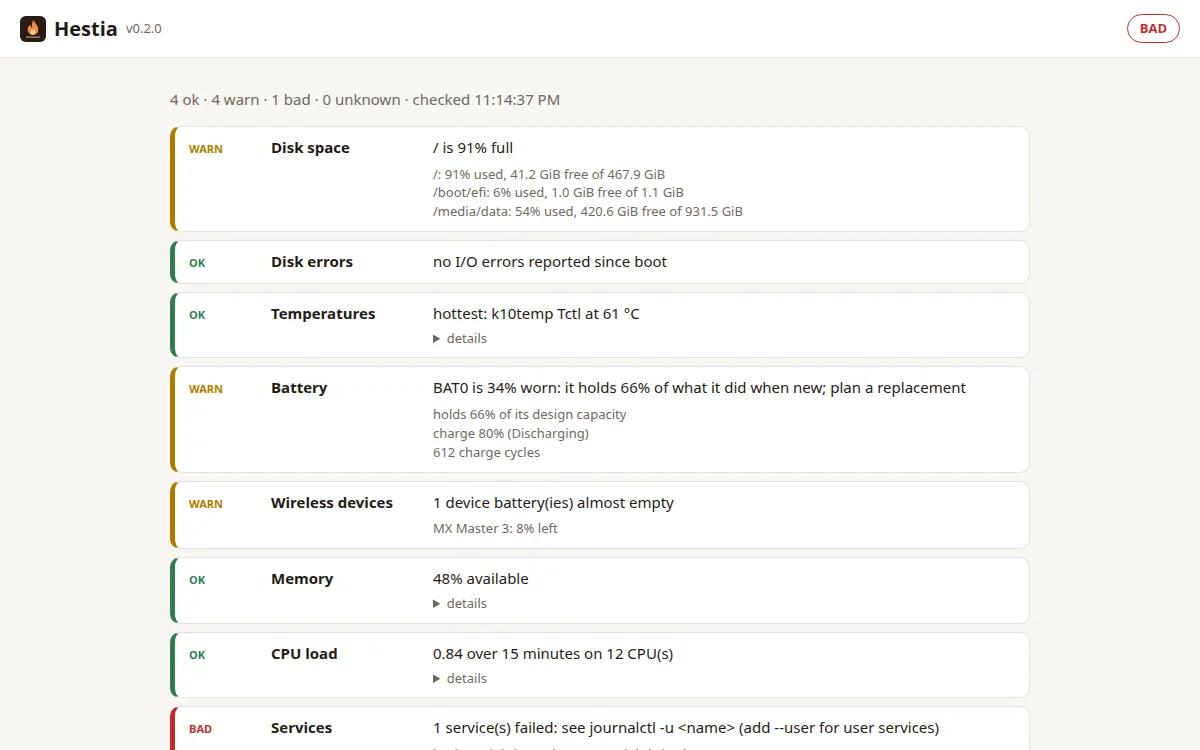
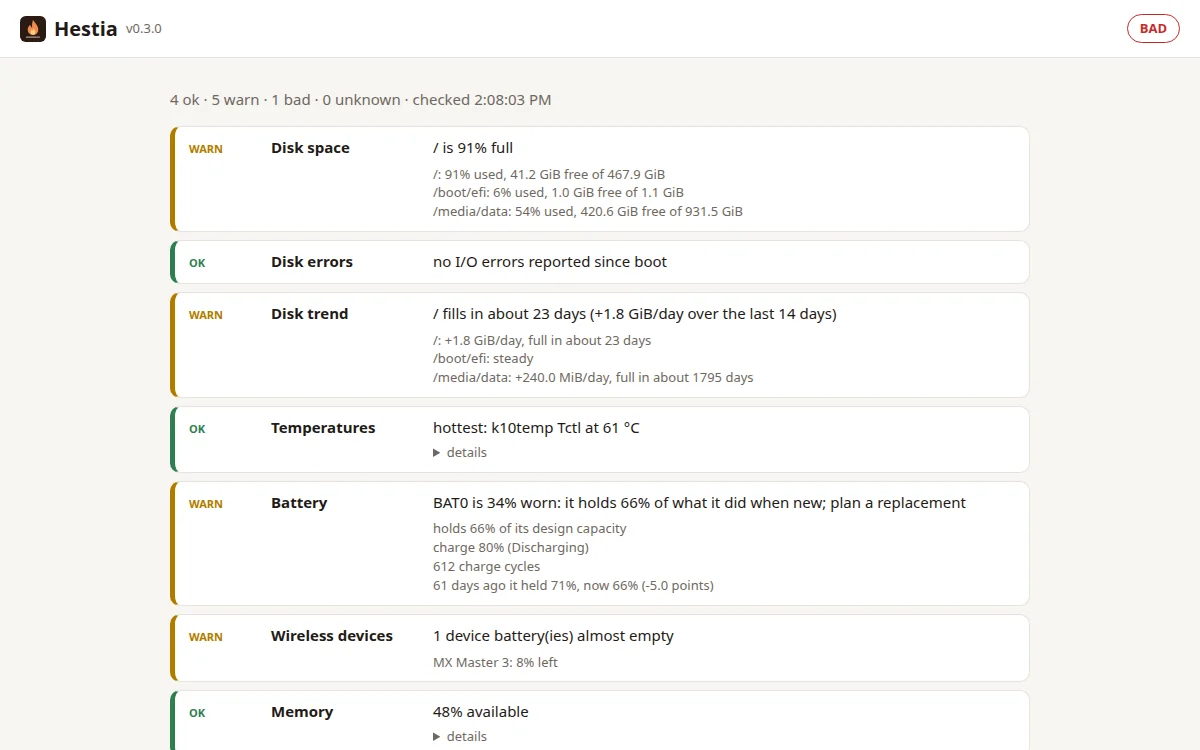
Hestia 0.3: disk trend

diff --git a/index.html b/index.html
@@ -273,9 +273,9 @@
           <li class="card">
             <a class="card__link" href="https://github.com/fas0ftware/hestia" target="_blank" rel="noopener noreferrer">
               <span class="card__thumb"><img src="assets/projects/hestia.webp" alt="Hestia page: each health check with its status, from disk space and temperatures to a worn battery, a nearly empty mouse and a failed service" width="1200" height="750" loading="lazy" decoding="async"></span>
-              <span class="card__meta"><span class="tag">0.2</span> System health</span>
+              <span class="card__meta"><span class="tag">0.3</span> System health</span>
               <span class="card__title">Hestia</span>
-              <span class="card__text">Is this laptop healthy? Disk space and I/O errors, temperatures against each sensor's limits, battery wear, memory, load and failed services; a phone alert only when something changes, and a live page.</span>
+              <span class="card__text">Is this laptop healthy? Disk space and I/O errors, temperatures against each sensor's limits, battery wear, memory, load and failed services; how many days until a disk is full, a phone alert only when something changes, and a live page.</span>
               <span class="card__tech">Rust · /proc · /sys</span>
             </a>
           </li>
